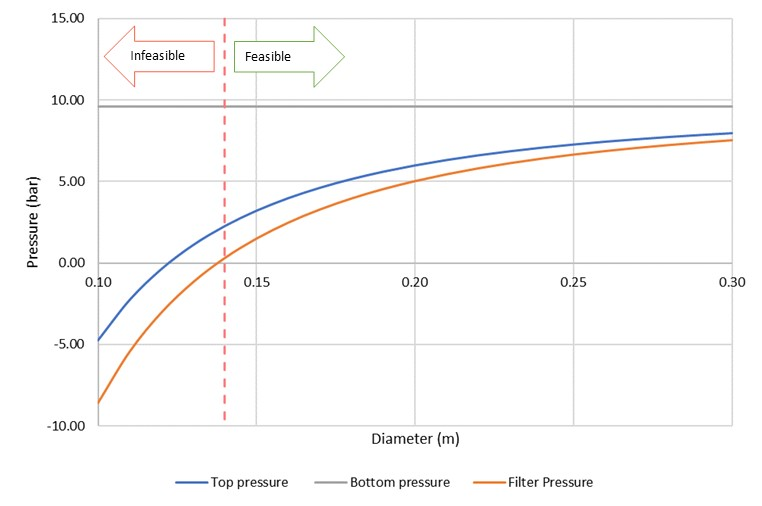
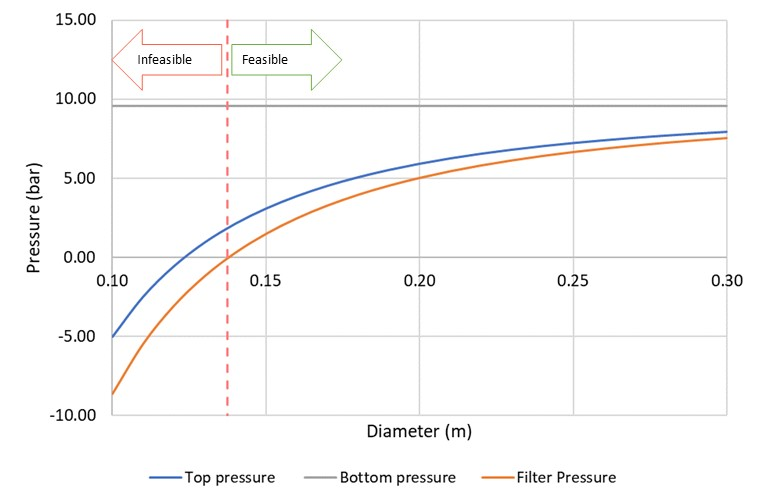
Update on Overleaf.

diff --git a/chapters/3-separation/1-foo.tex b/chapters/3-separation/1-foo.tex
@@ -217,6 +217,12 @@ During operation of the hydraulic column  variations in the length of the filtra
 *graph on effect of varying diameter 
 \\In the design of the hydraulic column there are many variables included. Therefore, the length of the variable was fixed at 1 m following the literature. Instead, the diameter of the column was varied. Figure -- shows the impact diameter has on the column's performance. Below 0.165 m the model showed negative pressure at the filter implying instead of mother liquor flowing up through the filter tube, it could be flowing in the reverse direction. The pressure at the top is also negative indicating at these conditions the fluid flow in the column may not be in the desirable downward direction. A suitable diameter was chosen at 0.17 m allowing for variations in the column under normal operation. 
 
+\begin{figure}[h]
+  \includegraphics[scale=0.5]{chapters/3-separation/figures/diameter.jpg}
+  \caption{Effect of var}
+  \label{fig:dia_col}
+\end{figure}
+
 *graph on effect of varying steer flow 
 \\Steer flow is the flow rate of the mother liquor being recycled back into the column from the filter tubes whilst some mother liquor are removed as residual flow. In order to find the appropriate steer flow, it was varied from 4.5e-6 to 3.45e-5 m3/s. Figure -- shows the unfeasible and feasible region of operation. Above a steer flow 2e-5, the column starts exhibiting negative liquid pressure drop at the filter. However, at lower steer flow such as 4.5e-6 the filter pressure increases significantly to more than 15 bar. In order to attain a lower pressure but also ensure the column is in a feasible region, the steer flow at 1.75 e-5 was chosen as reasonable. At this flow rate there is an allowance for variation in the flowrate whilst the column is still operating in the feasible region. 
 

diff --git a/chapters/5-safety-layout-environment/7-waste.tex b/chapters/5-safety-layout-environment/7-waste.tex
@@ -36,9 +36,9 @@ Whilst every effort has been made to prevent and minimise waste, there will inev
 
 
 Due to the continuous nature of the plant, liquid effluent streams will be continually discharged and so there must be an on-site wastewater treatment plant that is able to manage this demand sufficiently. As seen in table %label the table 
-, the majority of waste streams have high organic content (which is reflected by the high COD values), consisting of unreacted compounds from different stages of the overall process. Each of the waste streams are first collected and stored before being sent to our on-site waste treatment facility. Before being stored, stream 3-12 will pass through a flash drum to separate the liquid and vapour phases. High content organic streams which contain flammable material will be disposed of via incineration as recommended \cite{sinnott_coulson_2005}, utilising the energy recovered from this within the plant. %how is the energy used specifically? 
+, the majority of waste streams have high organic content (which is reflected by the high COD values), consisting of unreacted compounds from different stages of the overall process. Each of the waste streams are first collected and stored before being sent to our on-site waste treatment facility. Before being stored, stream 3-12 will pass through a flash drum to separate the liquid and vapour phases. Pure organic streams which contain flammable material will be disposed of via incineration as recommended \cite{sinnott_coulson_2005}, utilising the energy recovered from this within the plant. %how is the energy used specifically? 
 
-
+For aqueous organic streams, due to the high COD values, two treatment methods will be utilised. First the streams will undergo coagulation, which is efficient in removing dissolved organic matter, 
 
 
 
